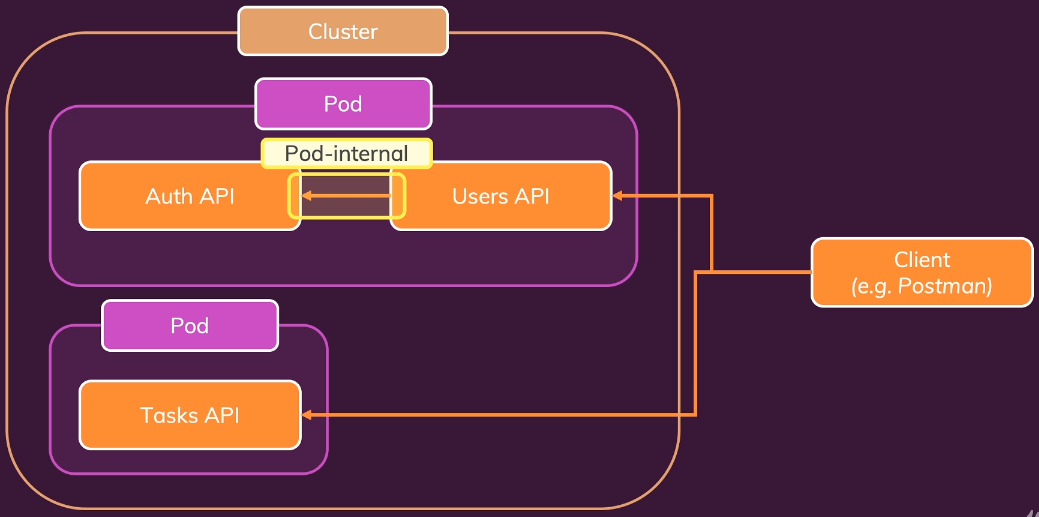
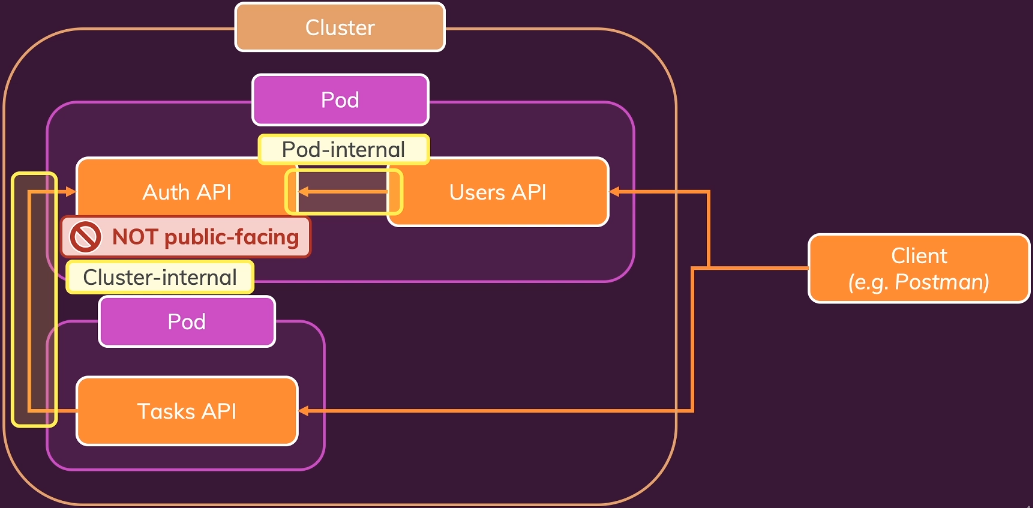
add own pod for auth container

diff --git a/README.md b/README.md
@@ -1757,5 +1757,51 @@ Deploy the new deployment with `kubectl apply -f users-deplyment.yaml`and check 
 ```
 curl -X POST -H "Content-Type: application/json" -d '{"email": "test@test.com", "password": "testers"}' http://127.0.0.1:38163/login
 ```
+### Creating Multiple Deployments
+First we change our general setup so that the auth container gets its own pod. 
+![](kube-network-2.png)
+create an auth-deployment:
+```yaml
+apiVersion: apps/v1
+kind: Deployment
+metadata:
+  name: auth-deployment
+spec:
+  replicas: 1
+  selector:
+    matchLabels:
+      app: auth
+  template:
+    metadata:
+      labels:
+        app: auth
+    spec:
+      containers:
+        - name: auth
+          image: <hub account>/kube-demo-auth:latest
+```
+and a service so that the new pod is reachable inside the cluster:
+```yaml
+apiVersion: v1
+kind: Service
+metadata:
+  name: auth-service
+spec:
+  selector:
+    app: auth
+  type: ClusterIP
+  ports:
+  - port: 80
+    targetPort: 80
+```
+apply it `kubectl apply -f kubernetes/auth-service.yaml -f kubernetes/auth-deployment.yaml` and change the AUTH_ADDRESS in the users deployment environment... but first let's get the correct address by `kubectl get services` and use it:
+```yaml
+...
+          env: 
+            - name: AUTH_ADDRESS
+              value: "10.97.231.106"
+```
+finally apply the changes (`kubectl apply -f kubernetes/users-deployment.yaml`).
+
 
 
